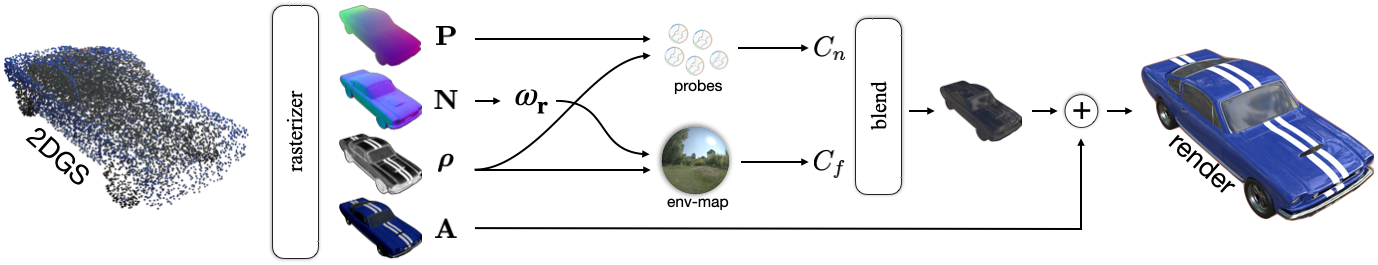
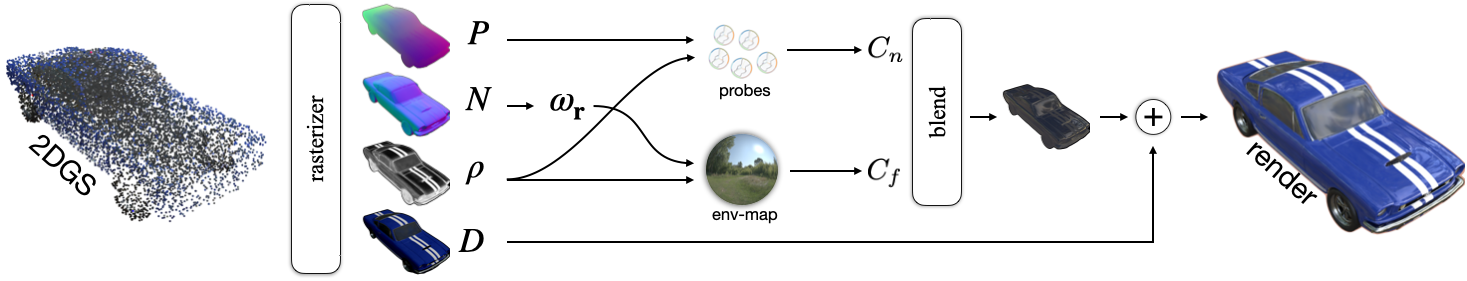
website upload

diff --git a/index.html b/index.html
@@ -572,7 +572,7 @@
                 On top of this, we adopt a <strong>deferred rendering pipeline</strong>.
                 The 2D Gaussian splat scene is first rasterized into geometry buffers
                 (per-pixel positions \( P(u,v) \), normals \( N(u,v) \),
-                roughness \( \rho(u,v) \), and diffuse color \( A(u,v) \)).
+                roughness \( \rho(u,v) \), and diffuse color \( D(u,v) \)).
                 In the lighting pass, we combine <strong>near-field reflections</strong> from our learnable probes
                 with <strong>far-field reflections</strong> from a learnable environment cubemap \( C_f(u,v) \).
                 A spatially varying mixing coefficient \( \alpha(u,v) \),
